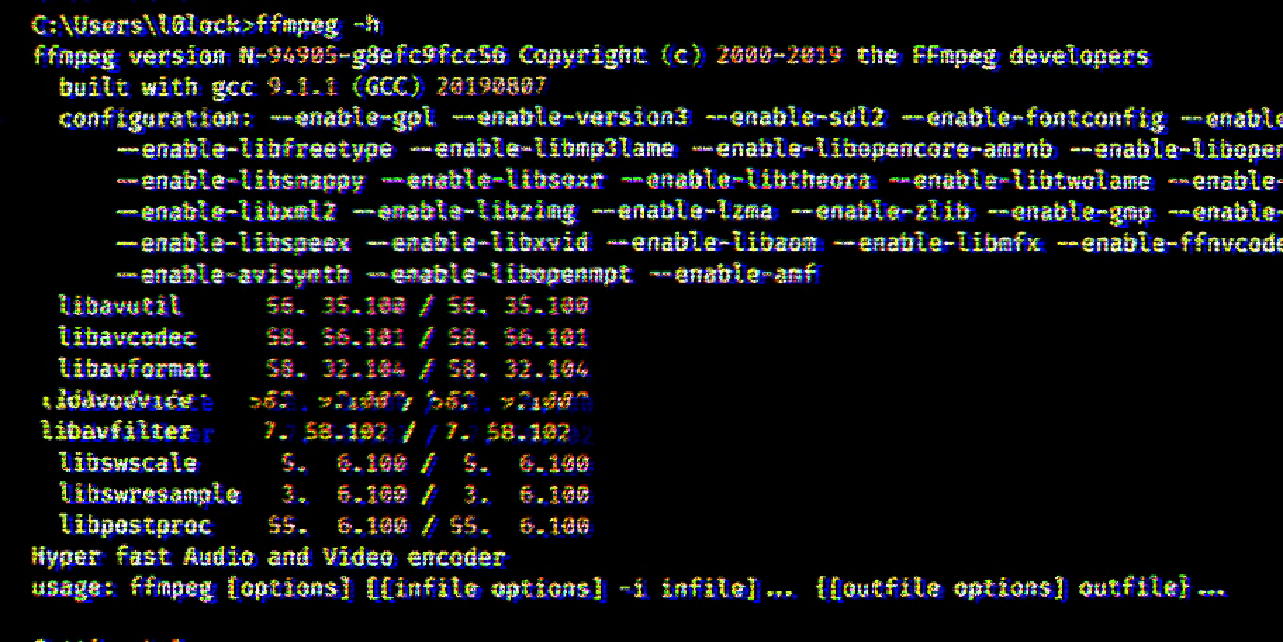
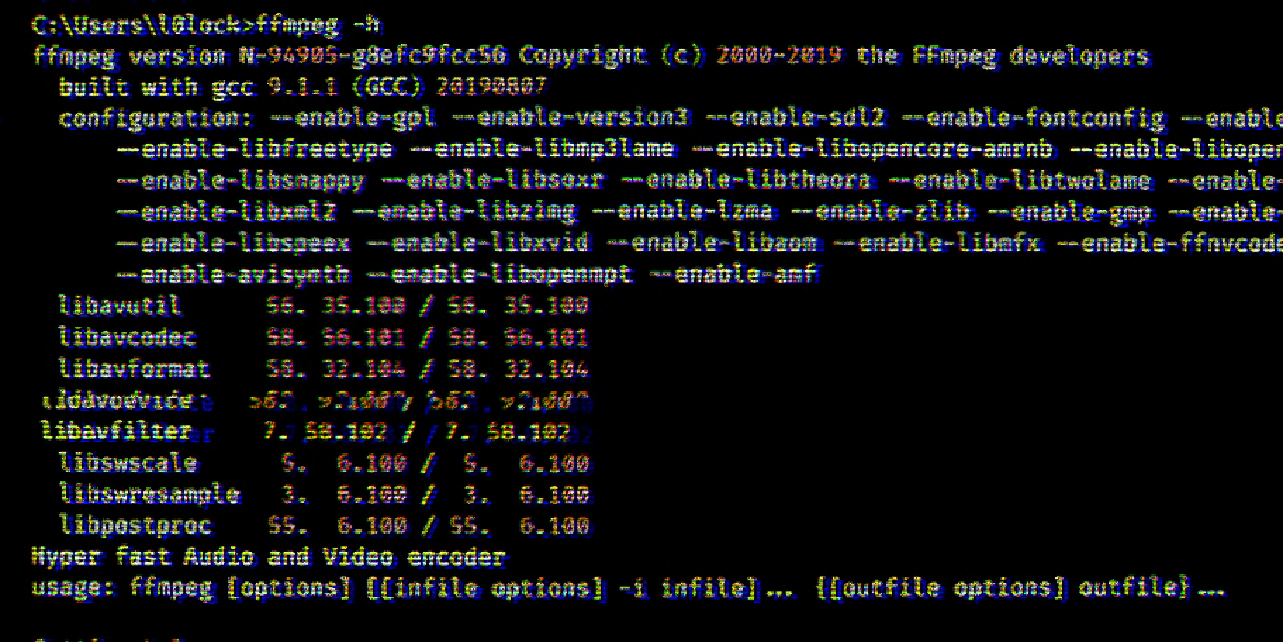
removal of secondary background

diff --git a/assets/css/style.scss b/assets/css/style.scss
@@ -4,10 +4,10 @@
 @import 'jekyll-theme-cayman';
 
 .page-header {
-	background-image: url('https://l0lock.github.io/FFmpeg-bat-collection/assets/img/banner.jpg'), url('https://l0lock.github.io/FFmpeg-bat-collection/assets/img/tile.jpg');
-	background-size: cover, 200px;
-    background-repeat: no-repeat, repeat;
-    background-position: center top, left top;
+	background-image: url('https://l0lock.github.io/FFmpeg-bat-collection/assets/img/banner.jpg');
+	background-size: cover;
+    background-repeat: no-repeat;
+    background-position: center top;
 
 
 }
